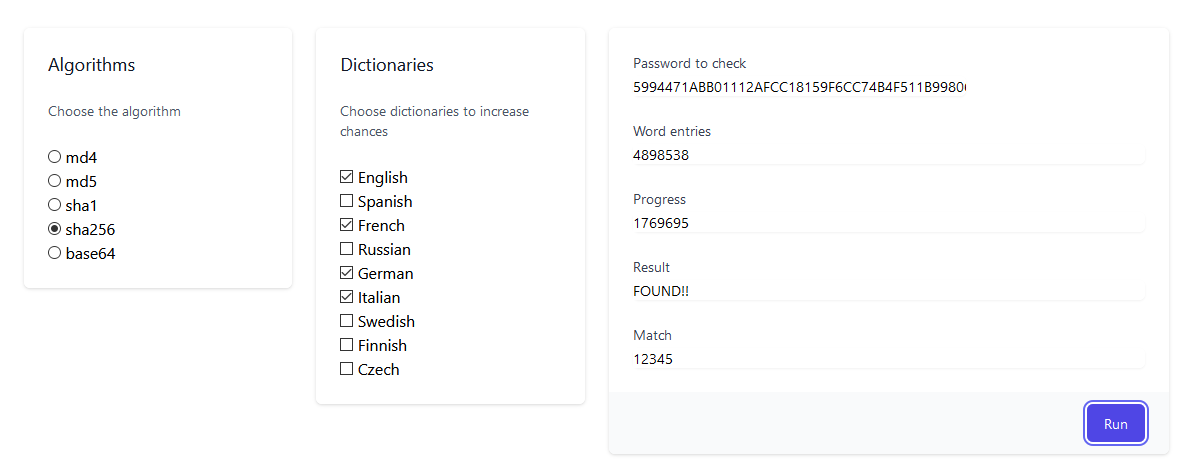
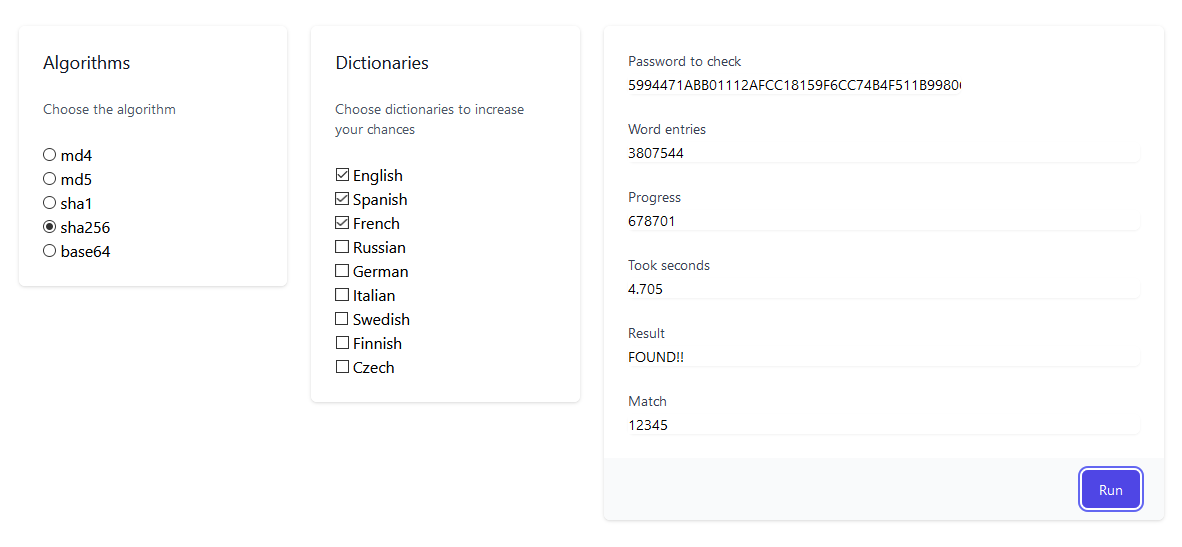
adding time stats

diff --git a/src/site/index.html b/src/site/index.html
@@ -126,6 +126,15 @@
                             <input type="text" name="txtWordProgress" id="txtWordProgress" readonly="true" class="focus:ring-indigo-500 focus:border-indigo-500 flex-1 block w-full rounded-none rounded-r-md sm:text-sm border-gray-300" ></input>
                         </div>
                       </div>
+
+                      <div>
+                        <label for="about" class="block text-sm font-medium text-gray-700">
+                            Took seconds
+                        </label>
+                        <div class="mt-1 flex rounded-md shadow-sm">
+                            <input type="text" name="txtElapsedTime" id="txtElapsedTime" readonly="true" class="focus:ring-indigo-500 focus:border-indigo-500 flex-1 block w-full rounded-none rounded-r-md sm:text-sm border-gray-300" ></input>
+                        </div>
+                      </div>
                       
                       <div>
                         <label for="about" class="block text-sm font-medium text-gray-700">

diff --git a/src/site/index.js b/src/site/index.js
@@ -13,6 +13,7 @@ mem.then(m => {
         const rbAlgorithm = document.getElementsByName("rbAlgorithm");
         const txtWordListCount = document.getElementById("txtWordListCount");
         const txtPwdOutput = document.getElementById("txtPwdOutput");
+        const txtElapsedTime = document.getElementById("txtElapsedTime");
         var ripper = new j.Ripper();
 
         const clean = () => {
@@ -29,6 +30,7 @@ mem.then(m => {
                 .then(run())
                 .then(() => {
                     txtWordProgress.value = ripper.get_progress();
+                    txtElapsedTime.value = ripper.get_elapsed_seconds();
                     const match = ripper.get_match();
                     if (match === "") {
                         txtResult.value = "NOT FOUND!!";

diff --git a/src/ripper_wasm/src/lib.rs b/src/ripper_wasm/src/lib.rs
@@ -1,4 +1,5 @@
 use wasm_bindgen::prelude::*;
+extern crate js_sys;
 extern crate base64;
 extern crate md5;
 extern crate sha256;
@@ -22,7 +23,8 @@ pub struct Ripper {
     word_list: Vec<String>,
     word_list_progress: usize,
     word_match: Option<String>,
-    algorithm: Option<Algorithm>
+    algorithm: Option<Algorithm>,
+    elapsed_seconds: Option<f64>,
 }
 
 struct Md5Wrapper {}
@@ -41,7 +43,8 @@ impl Ripper {
             word_list: Vec::default(),
             word_list_progress: 0,
             word_match: None,
-            algorithm: None
+            algorithm: None,
+            elapsed_seconds: None
         }
     }
 
@@ -59,6 +62,8 @@ impl Ripper {
     pub fn load_word_entries(&mut self, entries: String) {        
         self.word_list = entries
             .split("\r\n")
+            .map(|word|word.split("\n"))
+            .flatten()
             .filter_map(|word|if word.is_empty() { None } else { Some(word.to_string()) })
             .collect();
     }
@@ -70,6 +75,7 @@ impl Ripper {
             panic!("set algorithm first!");
         }
 
+        let starting = js_sys::Date::now();
         let algorithm = self.algorithm.as_ref().unwrap();
         let encoder = algorithm.get_encoder();
 
@@ -82,6 +88,9 @@ impl Ripper {
             }
         }
 
+        let ending = js_sys::Date::now();
+        let elapsed = (ending - starting) / 1_000f64;
+        self.elapsed_seconds = Some(elapsed);
         self.word_match.is_some()
     }
 
@@ -96,13 +105,18 @@ impl Ripper {
     pub fn get_match(&self) -> String {
         self.word_match.clone().unwrap_or_default()
     }
+
+    pub fn get_elapsed_seconds(&self) -> f64 {
+        self.elapsed_seconds.unwrap_or(0.0)
+    }
 }
 
 impl Ripper {
     fn reset(&mut self) {
         self.word_match = None;
+        self.elapsed_seconds = None;
         self.word_list_progress = 0;
-    }
+    }    
 }
 
 trait EncoderFactory {
@@ -165,6 +179,9 @@ impl EncoderFactory for Algorithm {
 #[cfg(test)]
 mod tests {
 
+    #![cfg(target_arch = "wasm32")]
+    extern crate wasm_bindgen_test;
+    use wasm_bindgen_test::*;
     use crate::Ripper;    
     use crate::Algorithm;
         
@@ -179,7 +196,7 @@ mod tests {
         assert_eq!("my_word", cracker.word_match.unwrap_or_default());
     }
 
-    #[test]
+    #[wasm_bindgen_test]
     fn reset_clear_result() {
         let mut cracker = Ripper::new();
         cracker.word_match = Some("match".to_string());
@@ -187,12 +204,14 @@ mod tests {
         cracker.reset();
 
         assert_eq!(None, cracker.word_match);
+        assert_eq!(None, cracker.elapsed_seconds);
+        assert_eq!(0.0, cracker.get_elapsed_seconds());
         assert_eq!(true, cracker.get_match().is_empty());
         assert_eq!(0, cracker.word_list_progress);
         assert_eq!(0, cracker.get_progress());
     }
 
-    #[test]
+    #[wasm_bindgen_test]
     fn load_word_entries_filter_empty_lines() {
         const WORD_LIST: &str = "\r\n";
 
@@ -200,8 +219,26 @@ mod tests {
         cracker.load_word_entries(WORD_LIST.to_string());
         assert_eq!(0, cracker.get_word_list_count());
     }
+
+    #[wasm_bindgen_test]
+    fn load_word_entries_using_new_line_style() {
+        const WORD_LIST: &str = "one\ntwo\nthree";
+
+        let mut cracker: Ripper = Ripper::new();
+        cracker.load_word_entries(WORD_LIST.to_string());
+        assert_eq!(3, cracker.get_word_list_count());
+    }
+
+    #[wasm_bindgen_test]
+    fn load_word_entries_combining_new_line_style() {
+        const WORD_LIST: &str = "one\r\ntwo\nthree\r\nfour";
+
+        let mut cracker: Ripper = Ripper::new();
+        cracker.load_word_entries(WORD_LIST.to_string());
+        assert_eq!(4, cracker.get_word_list_count());
+    }
     
-    #[test]
+    #[wasm_bindgen_test]
     fn load_word_entries_reset_values() {
         const WORD_LIST_ONE: &str = "one\r\ntwo\r\nthree";
         const WORD_LIST_TWO: &str = "one\r\ntwo\r\nthree\r\nfour";
@@ -214,27 +251,27 @@ mod tests {
         assert_eq!(4, cracker.get_word_list_count());
     }
 
-    #[test]
+    #[wasm_bindgen_test]
     fn compute_md5() {
         compute("E4EAC943E400CD75335CE2A751E794F4", Algorithm::Md5);
     }
 
-    #[test]
+    #[wasm_bindgen_test]
     fn compute_base64() {
         compute("bXlfd29yZA==", Algorithm::Base64);
     }
 
-    #[test]
+    #[wasm_bindgen_test]
     fn compute_sha256() {
[1 lines of base64/hex data omitted]
     }
 
-    #[test]
+    #[wasm_bindgen_test]
     fn compuet_md4() {
         compute("3B9AFF425FA5F33A77B0DC569AB4FE60", Algorithm::Md4)
     }
 
-    #[test]
+    #[wasm_bindgen_test]
     fn compuet_sha1() {
         compute("3E047347D97C14169F3EA769B1F28CAF9D6A8E5D", Algorithm::Sha1);
     }

diff --git a/README.md b/README.md
@@ -1,7 +1,7 @@
 # WASM rust the ripper 
 Password cracker made in WASM Rust, inspired by the popular John the Ripper.
 The app uses a collection of password dictionaries and different algorithms to perform a brute attack in order to get the ciphered password.
-<br/><br/>
+<br/>
 
 ## Available algorithms
 Please, refer to each crate documentation and check its licensing.
@@ -14,11 +14,11 @@ Please, refer to each crate documentation and check its licensing.
 | `sha256`    | SHA-2 256| [![crates.io](https://img.shields.io/crates/v/sha256.svg)](https://crates.io/crates/sha256)|
 | `base64`    | Base64   | [![crates.io](https://img.shields.io/crates/v/base64.svg)](https://crates.io/crates/base64)|
 
-<br/><br/>
+<br/>
 
 ![UI](doc/ui.png)
 
-<br/><br/>
+<br/>
 
 ## Build and run in development environment
 
@@ -54,7 +54,7 @@ npm run serve
 
 Enjoy
 
-<br/><br/>
+<br/>
 
 ## License
 This project is licensed under the terms of the MIT license. 
